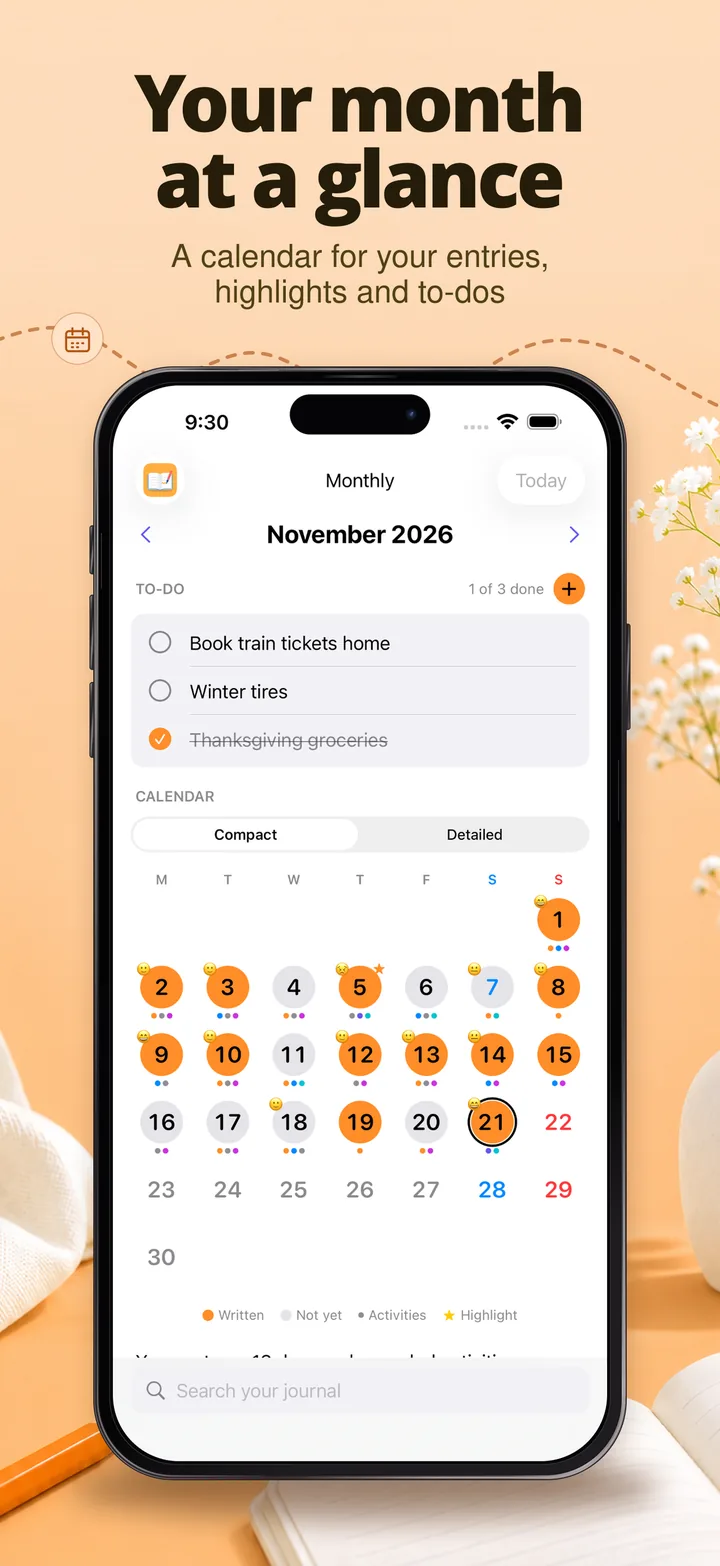
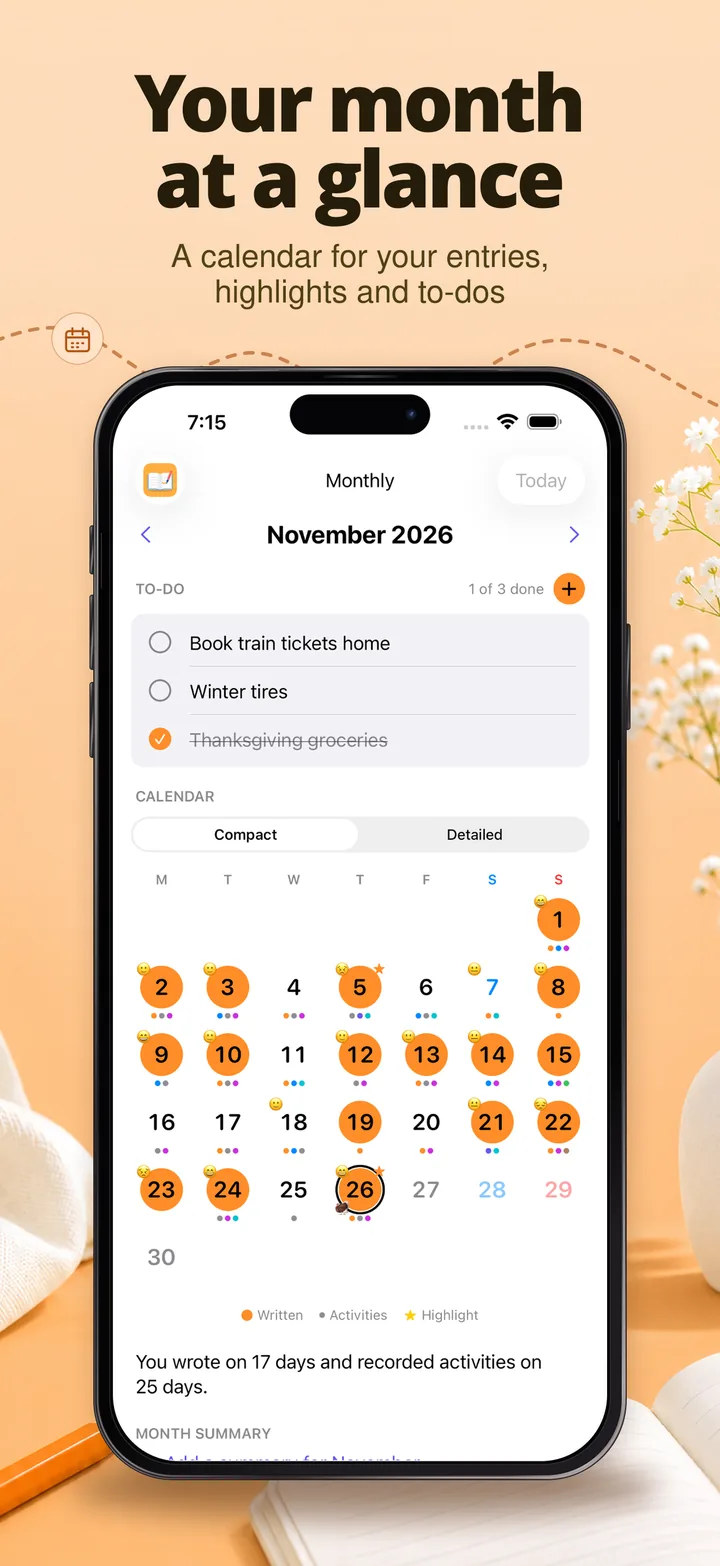
App store launch (#3)

diff --git a/index.html b/index.html
@@ -6,7 +6,7 @@
   <title>Dayquarto — Daily Journal &amp; Yearly Books for iPhone</title>
   <meta name="description" content="Write a line, log what you did, and watch your year become a book. Read it as it grows, or export it as a PDF. No account. Your journal stays on your device.">
   <meta name="theme-color" content="#ff9500">
-  <!-- After launch, add: <meta name="apple-itunes-app" content="app-id=APP_ID"> -->
+  <meta name="apple-itunes-app" content="app-id=6837997594">
   <link rel="canonical" href="https://dayquarto.com/">
   <link rel="icon" href="assets/img/favicon.svg" type="image/svg+xml">
   <link rel="apple-touch-icon" href="assets/img/apple-touch-icon.png">
@@ -48,11 +48,9 @@
           </h1>
           <p class="lede">Dayquarto is a journal for ordinary days. Jot down what happened, tap off what you did, and note how you felt. Over the year, those small entries become a book you can read in the app or export as a PDF.</p>
           <div class="hero-actions">
-            <!-- After launch, replace this with:
-            <a class="store-badge" href="https://apps.apple.com/app/idAPP_ID" rel="noopener">
+            <a class="store-badge" href="https://apps.apple.com/app/id6837997594" rel="noopener">
               <img src="assets/img/app-store-badge.svg" alt="Download on the App Store" width="162" height="54">
-            </a> -->
-            <span class="store-soon"><small>Coming soon to the</small><strong>App Store</strong></span>
+            </a>
             <a class="btn-link" href="#privacy">No account. No tracking. &rarr;</a>
           </div>
         </div>
@@ -135,7 +133,7 @@
             <figcaption>Your month at a glance</figcaption>
           </figure>
           <figure>
-            <img src="assets/img/06-yearly-summary.webp" width="720" height="1566" loading="lazy" alt="Yearly page with a heatmap of the year, activity rows with twelve month squares, and average times per month.">
+            <img src="assets/img/06-yearly-summary.webp" width="720" height="1566" loading="lazy" alt="Yearly page with a goals and wishes list, a heatmap of the year, and activity rows with twelve month squares.">
             <figcaption>See what you did this year</figcaption>
           </figure>
           <figure>
@@ -186,8 +184,10 @@
     <section class="download" aria-labelledby="download-title">
       <div class="wrap">
         <h2 id="download-title">Start your book with Dayquarto</h2>
-        <p>Coming soon to the App Store for iPhone in the United States and Canada.</p>
-        <span class="store-soon"><small>Coming soon to the</small><strong>App Store</strong></span>
+        <p>Available now on the App Store for iPhone in the United States and Canada.</p>
+        <a class="store-badge" href="https://apps.apple.com/app/id6837997594" rel="noopener">
+          <img src="assets/img/app-store-badge.svg" alt="Download on the App Store" width="162" height="54">
+        </a>
       </div>
     </section>
   </main>
